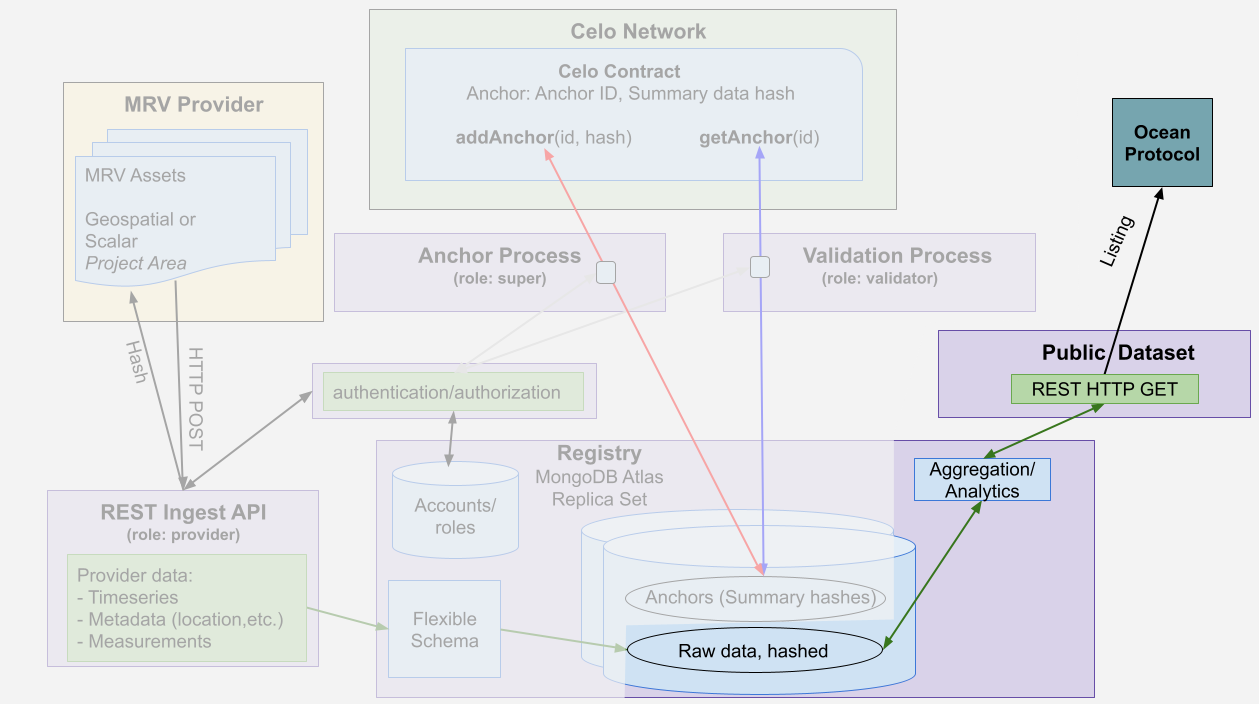
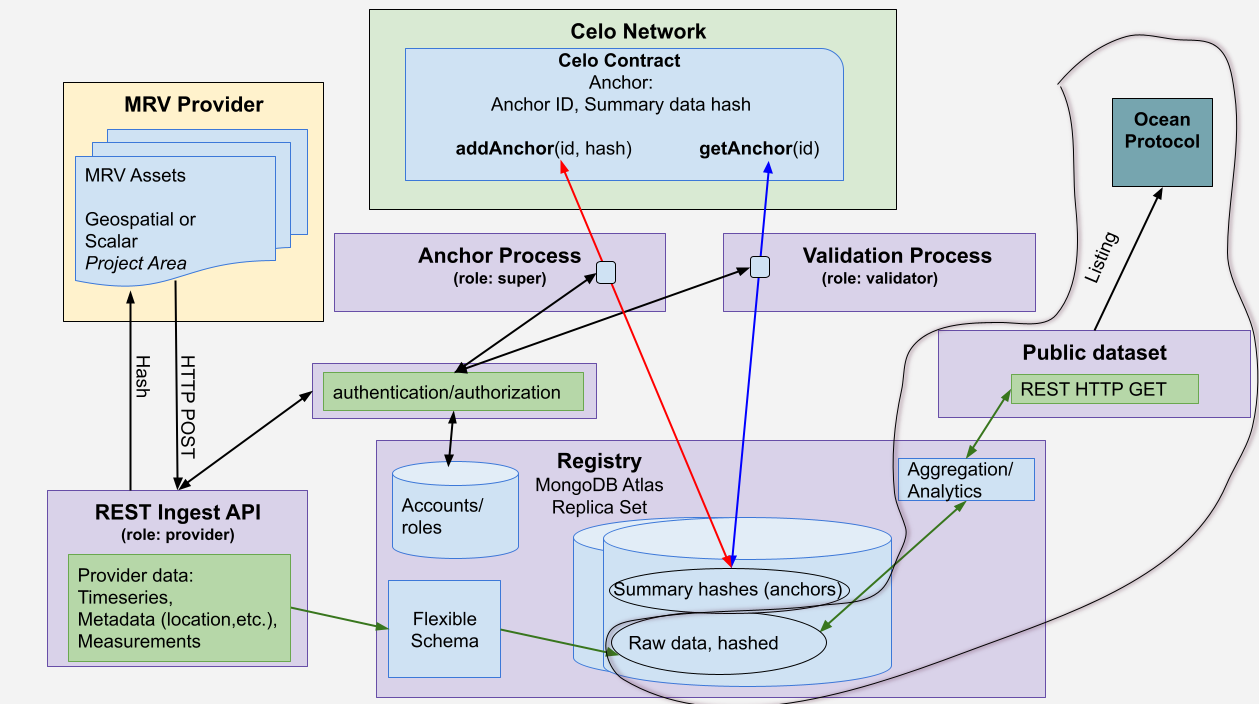
GitBook: [#141] update text from outlined to highlighted

diff --git a/celo-verifiable-spatial-data-registry-mvp/technical-design/validation.md b/celo-verifiable-spatial-data-registry-mvp/technical-design/validation.md
@@ -1,6 +1,6 @@
 # Validation
 
-<figure><img src="../../.gitbook/assets/validation (1).png" alt=""><figcaption><p>Validation process outlined</p></figcaption></figure>
+<figure><img src="../../.gitbook/assets/validation (1).png" alt=""><figcaption><p>Validation process highlighted</p></figcaption></figure>
 
 The validation process, running under the 'validator' role, retrieves a requested number of unvalidated anchors, and for each one, retrieves the associated data points, recalculates the summary hash.&#x20;
 

diff --git a/celo-verifiable-spatial-data-registry-mvp/technical-design/list-on-ocean.md b/celo-verifiable-spatial-data-registry-mvp/technical-design/list-on-ocean.md
@@ -1,6 +1,6 @@
 # List on Ocean
 
-<figure><img src="../../.gitbook/assets/list (1).png" alt=""><figcaption><p>Listing query data on Ocean marketplace outlined</p></figcaption></figure>
+<figure><img src="../../.gitbook/assets/list.png" alt=""><figcaption><p>Listing query data on Ocean marketplace highlighted</p></figcaption></figure>
 
 
 

diff --git a/celo-verifiable-spatial-data-registry-mvp/technical-design/ingestion.md b/celo-verifiable-spatial-data-registry-mvp/technical-design/ingestion.md
@@ -1,6 +1,6 @@
 # Ingestion
 
-<figure><img src="../../.gitbook/assets/ingestion.png" alt=""><figcaption><p>Ingestion layer outlined</p></figcaption></figure>
+<figure><img src="../../.gitbook/assets/ingestion.png" alt=""><figcaption><p>Ingestion layer highlighted</p></figcaption></figure>
 
 
 

diff --git a/celo-verifiable-spatial-data-registry-mvp/technical-design/anchoring.md b/celo-verifiable-spatial-data-registry-mvp/technical-design/anchoring.md
@@ -1,6 +1,6 @@
 # Anchoring
 
-<figure><img src="../../.gitbook/assets/anchor.png" alt=""><figcaption><p>Anchor process outlined</p></figcaption></figure>
+<figure><img src="../../.gitbook/assets/anchor.png" alt=""><figcaption><p>Anchor process highlighted</p></figcaption></figure>
 
 
 
